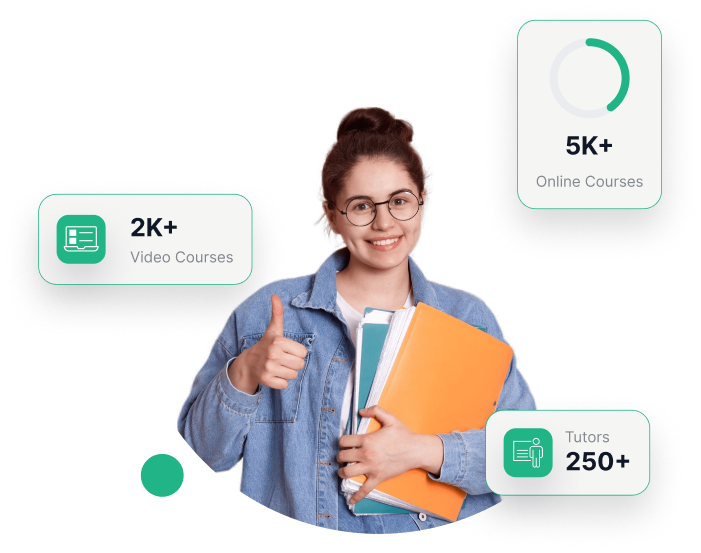
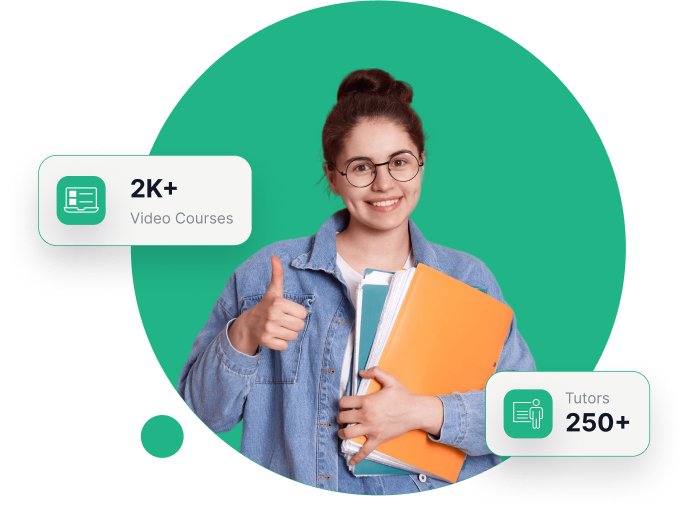
fix circles
fix circles

diff --git a/qmm/app/Hero/heroComponent.js b/qmm/app/Hero/heroComponent.js
@@ -136,7 +136,7 @@ const heroComponent = () => {
               <div className="relative mx-auto w-full max-w-md lg:max-w-lg">
                 <div className="grid place-items-center">
                   <div className="relative w-full flex items-center justify-center">
-                    <div className="mx-auto aspect-square w-full rounded-full lg:bg-emerald-600 overflow-visible flex items-end justify-center">
+                    <div className="mx-auto aspect-square w-full rounded-full  overflow-visible flex items-end justify-center">
                       <img
                         src="/smilegirl.png"
                         alt="Student"
@@ -145,8 +145,7 @@ const heroComponent = () => {
                     </div>
                   </div>
 
-                  {/* Decorative dot (stable) */}
-                  <div className="mt-4 h-10 w-10 rounded-full bg-emerald-600" />
+               
                 </div>
               </div>
             </div>
